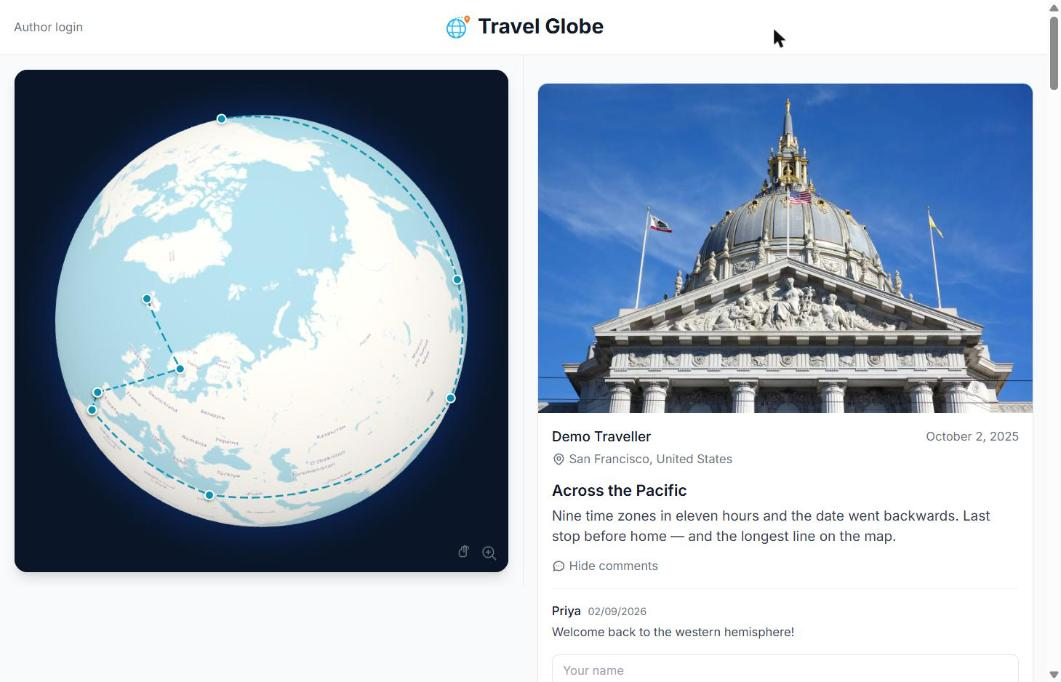
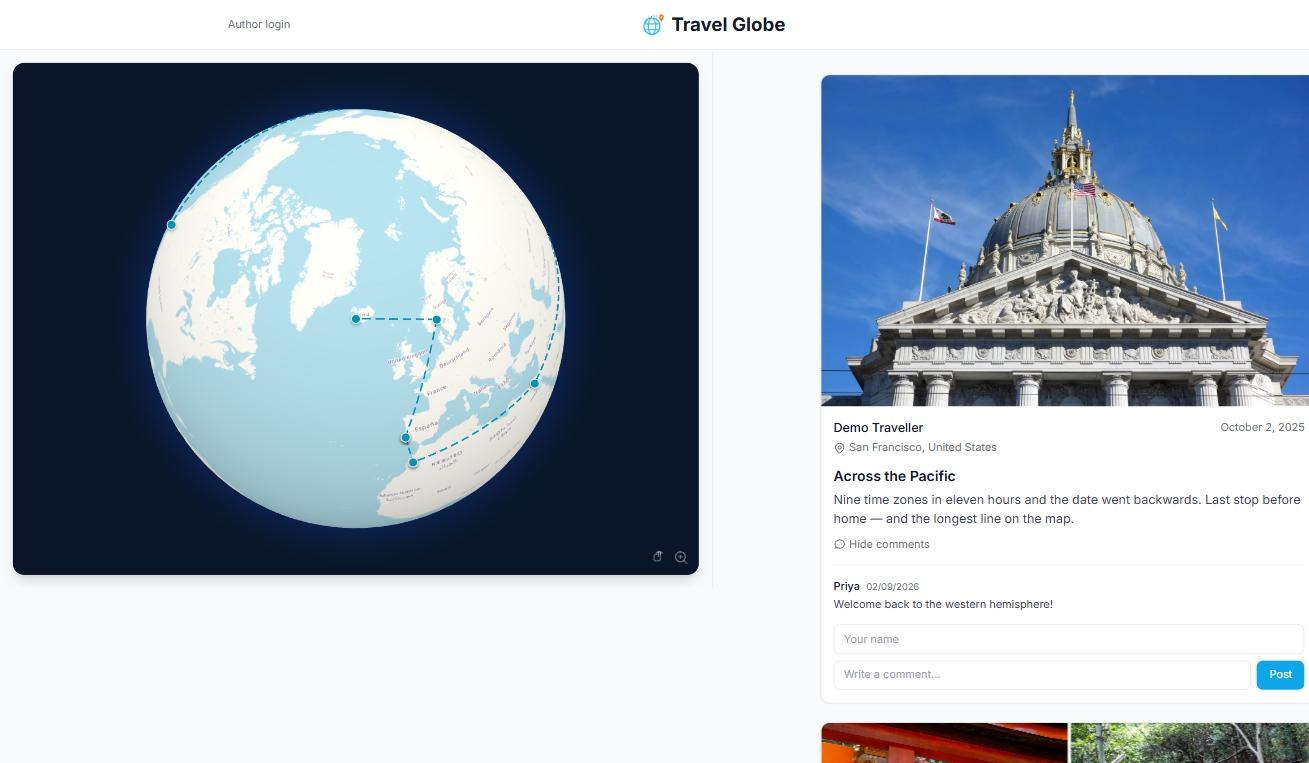
Replace duplicated and weak README screenshots
The first two images were near-identical: both showed the full split layout with
the same San Francisco post, differing only in the globe's rotation, so the
second one earned nothing.

They are now distinct shots of distinct things. The hero stays the full split
layout. The route image is cropped to the globe pane alone and rotated to the
Pacific leg arriving into San Francisco, which is the case the great-circle
routing exists to handle.

The mobile screenshot was the worst of the set — a tablet-width viewport showing
the ordinary blog layout, which is not what mobile looks like and showed nothing
the desktop shots did not. It is retaken at phone width in map mode: full-screen
globe with the swipeable post carousel and its pagination dots over it.

Also documents, at the top of the publishing section, that the branch a change
belongs on must be confirmed rather than inferred from whatever is checked out.

diff --git a/README.md b/README.md
@@ -40,7 +40,7 @@ the app actually working. It refuses to run if the database already has posts.
 date order by a dashed route line. Click a pin to jump the feed to that post;
 hover a post to spin the globe to it.
 
-![The route crossing the Pacific](docs/screenshots/globe-route.jpg)
+![The Pacific leg arriving into San Francisco](docs/screenshots/globe-route.jpg)
 
 The route legs are **great circles**, interpolated as slerped unit vectors rather
 than straight lines in lat/lng. That is what makes the Kyoto → San Francisco leg
@@ -68,7 +68,7 @@ with a table view for the charts whose colours fall under 3:1 contrast.
 
 **Mobile gets a map mode** — full-screen globe with a swipeable post carousel.
 
-<img src="docs/screenshots/mobile-map.jpg" width="380" alt="Mobile map mode">
+<img src="docs/screenshots/mobile-map.jpg" width="360" alt="Mobile map mode: full-screen globe with a swipeable post carousel">
 
 ## Making it yours
 

diff --git a/CLAUDE.md b/CLAUDE.md
@@ -325,6 +325,13 @@ instead. Use it to try the containers locally.
 
 ## Publishing to the public repository
 
+> **Before editing anything, confirm which branch the work belongs on.** This
+> folder holds a private branch and a public snapshot branch, and they are not
+> interchangeable. Ask; do not assume from whichever branch happens to be checked
+> out. The usual answer is the **private** branch — day-to-day feature work goes
+> there, and only a deliberate publishing step moves it to the public one.
+
+
 This project is developed privately and published from a separate history-free
 branch, because the private history contains personal photographs and server
 details that a `git filter-repo` pass would have to strip. The public branch is
